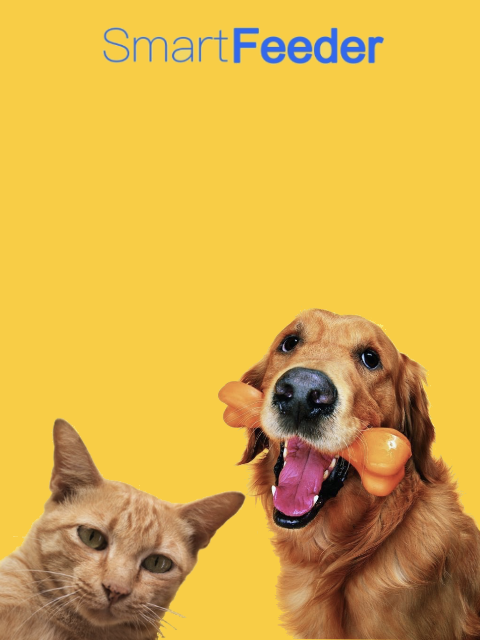
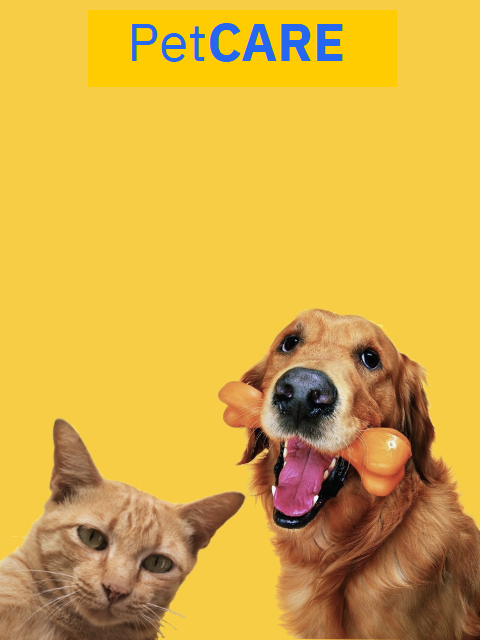
Update App Name

Changed region(s): [[0.1562, 0.0, 0.8438, 0.1562]]

diff --git a/src/views/Register/PetRegister.vue b/src/views/Register/PetRegister.vue
@@ -3,8 +3,8 @@
     <v-toolbar app dense clipped-left fixed>
       <div class="pl-2">
         <v-toolbar-title>
-          <span>Smart</span>
-          <span class="font-weight-light">FEEDER</span>
+          <span>Pet</span>
+          <span class="font-weight-light">CARE</span>
         </v-toolbar-title>
       </div>
       <div class="mr-4">

diff --git a/src/components/shared/TopBar/Toolbar.vue b/src/components/shared/TopBar/Toolbar.vue
@@ -2,8 +2,8 @@
   <v-toolbar app dense clipped-left fixed>
     <div class="pl-2">
       <v-toolbar-title>
-        <span>Smart</span>
-        <span class="font-weight-light">FEEDER</span>
+        <span>Pet</span>
+        <span class="font-weight-light">CARE</span>
       </v-toolbar-title>
     </div>
     <div class="mr-4">

diff --git a/vue.config.js b/vue.config.js
@@ -5,7 +5,7 @@ module.exports = {
   pluginOptions: {
     cordovaPath: 'src-cordova',
   },
-  outputDir: path.resolve(__dirname, '../SmartFeederApp-Server-Cloudant-/public'),
+  outputDir: path.resolve(__dirname, '../SmartFeederApp-Server/public'),
   filenameHashing: false,
   // assetsDir: "../../static/SPA"
 };

diff --git a/src/views/Register/DeviceRegister.vue b/src/views/Register/DeviceRegister.vue
@@ -11,8 +11,8 @@
     >
       <div class="pl-2">
         <v-toolbar-title>
-          <span>Smart</span>
-          <span class="font-weight-light">FEEDER</span>
+          <span>Pet</span>
+          <span class="font-weight-light">CARE</span>
         </v-toolbar-title>
       </div>
       <div class="mr-4">

diff --git a/src/views/Register/MedicineRegister.vue b/src/views/Register/MedicineRegister.vue
@@ -11,8 +11,8 @@
     >
       <div class="pl-2">
         <v-toolbar-title>
-          <span>Smart</span>
-          <span class="font-weight-light">FEEDER</span>
+          <span>Pet</span>
+          <span class="font-weight-light">CARE</span>
         </v-toolbar-title>
       </div>
       <div class="mr-4">
